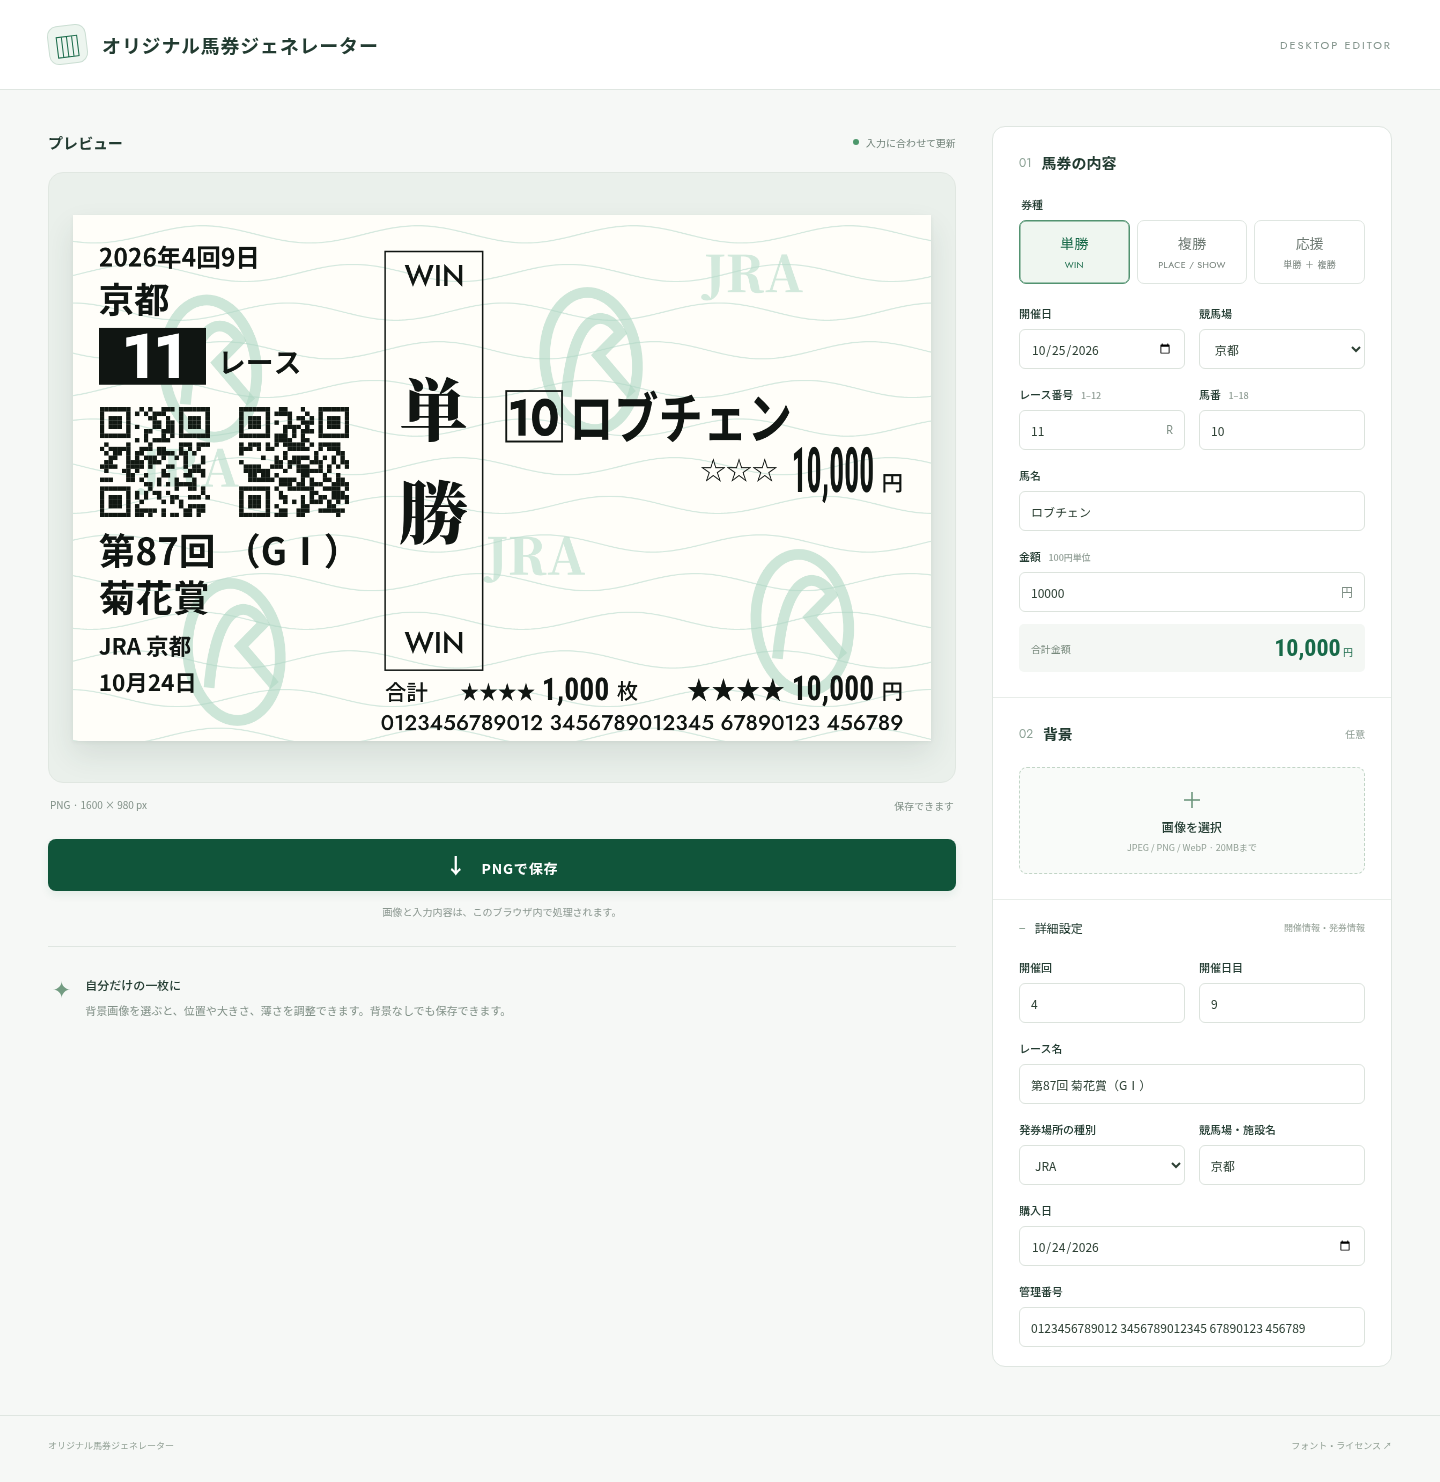
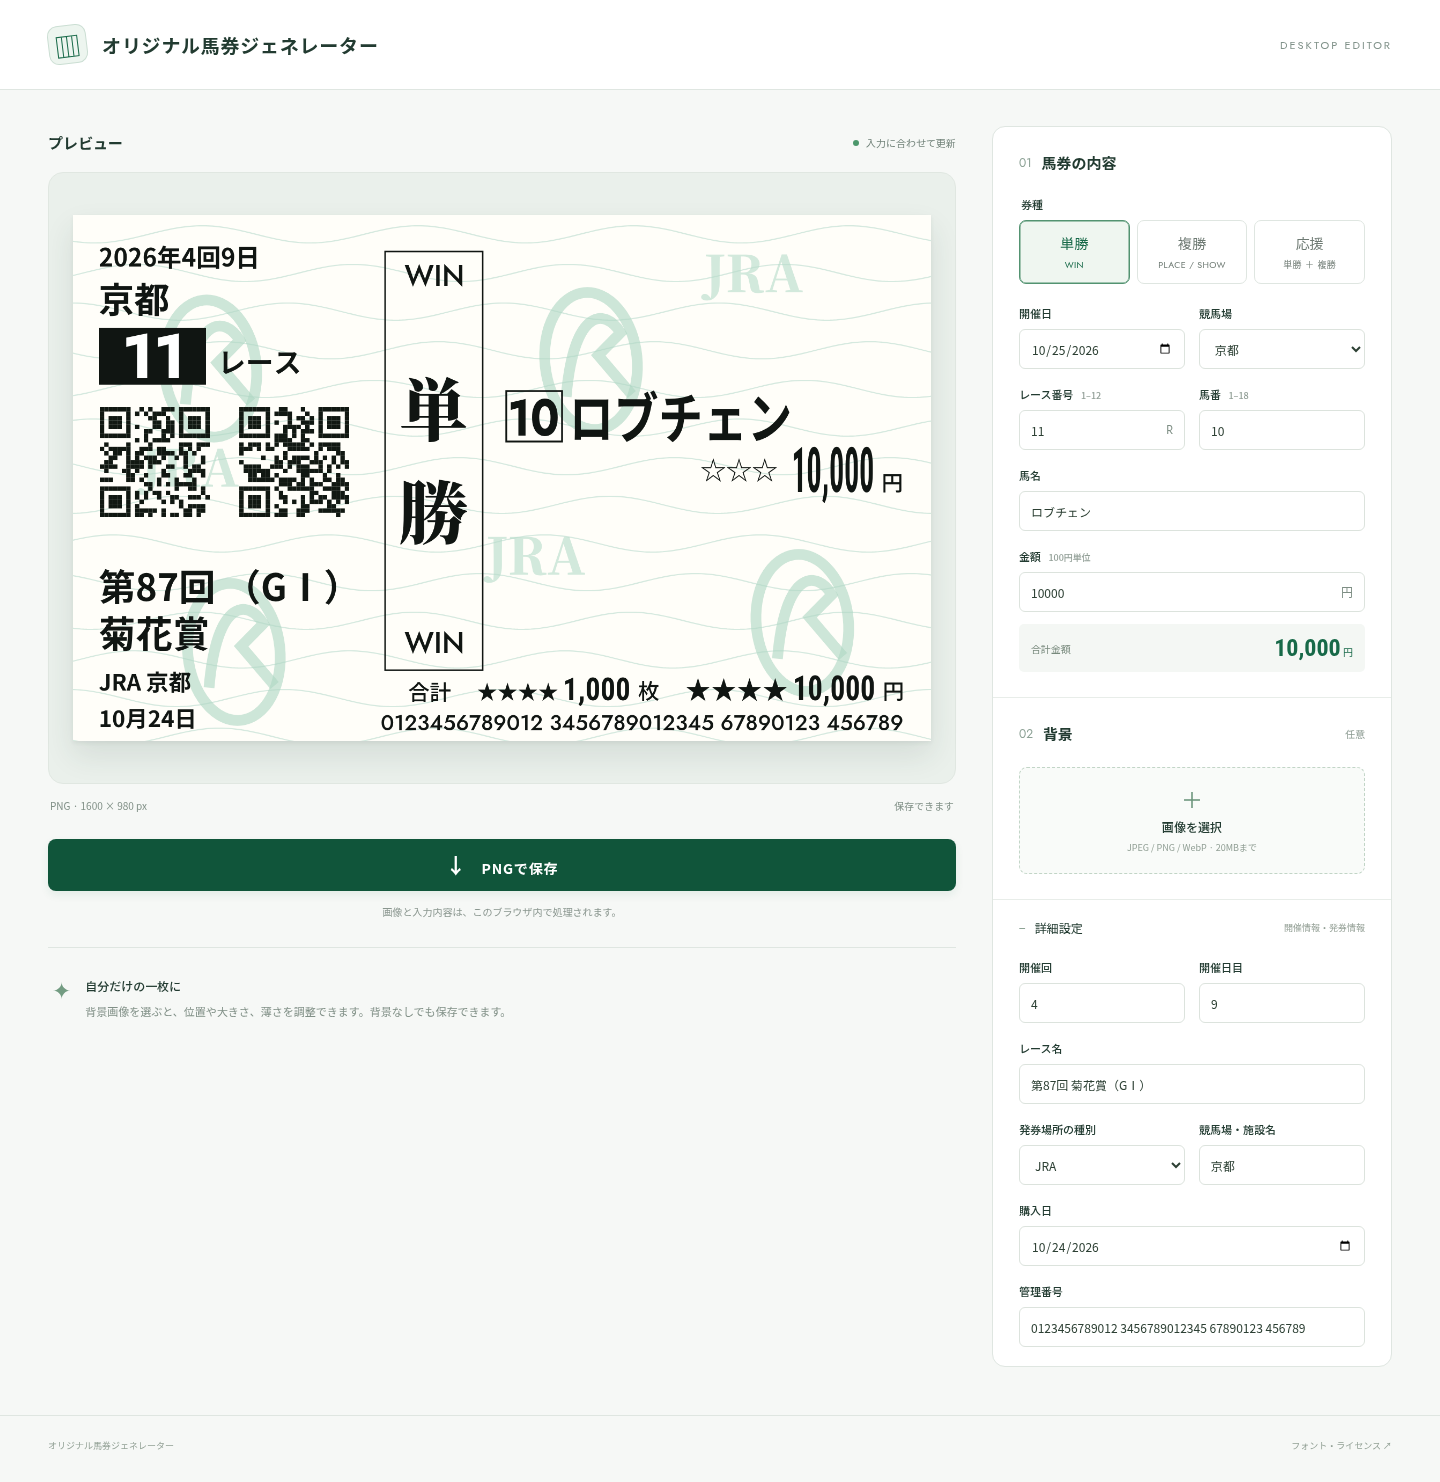
Group totals at bottom right and anchor race details at bottom left

diff --git a/app.js b/app.js
@@ -119,6 +119,40 @@
     ctx.restore();
     return starGap;
   }
+  function drawTotals(total){
+    const y=452, right=774, available=right-291;
+    function group(value,unit,size,starSize){
+      const s=number(value);
+      setFont(size,'money',700);const first=ctx.measureText(s[0]);
+      const inkOffset=digitCell/2-(first.width/2+first.actualBoundingBoxLeft)*digitCell/ctx.measureText('0').width;
+      setFont(starSize,'number',500);const stars=ctx.measureText('★★★★');
+      setFont(20,'sans',500);const unitRight=ctx.measureText(unit).actualBoundingBoxRight;
+      return {s,unit,size,starSize,stars,inkOffset,starWidth:stars.actualBoundingBoxLeft+stars.actualBoundingBoxRight,
+        fixedWidth:6-inkOffset+numericWidth(s)+7+unitRight};
+    }
+    ctx.save();
+    const count=group(total/10,'枚',30,19), amount=group(total,'円',32,24);
+    setFont(20,'sans',500);const label=ctx.measureText('合計');
+    const labelWidth=label.actualBoundingBoxLeft+label.actualBoundingBoxRight;
+    let groupGap=amount.starWidth/4;
+    const fixedWidth=labelWidth+count.fixedWidth+amount.fixedWidth;
+    const flexWidth=count.starWidth+amount.starWidth+2*groupGap;
+    const scale=Math.min(1,(available-fixedWidth)/flexWidth);
+    count.starWidth*=scale;amount.starWidth*=scale;groupGap*=scale;
+    const width=fixedWidth+count.starWidth+amount.starWidth+2*groupGap;
+    let x=right-width;
+    text('合計',x+label.actualBoundingBoxLeft,y,20,'sans',500);x+=labelWidth+groupGap;
+    for(const g of [count,amount]){
+      ctx.save();setFont(g.starSize,'number',500);ctx.fillStyle='#101512';ctx.textBaseline='alphabetic';
+      ctx.translate(x,y-1);ctx.scale(g.starWidth/(g.stars.actualBoundingBoxLeft+g.stars.actualBoundingBoxRight),1);
+      ctx.fillText('★★★★',g.stars.actualBoundingBoxLeft,0);ctx.restore();
+      const numberX=x+g.starWidth+6-g.inkOffset;
+      numericText(g.s,numberX,y,g.size);
+      text(g.unit,numberX+numericWidth(g.s)+7,y-1,20,'sans',500);
+      x+=g.starWidth+g.fixedWidth+groupGap;
+    }
+    ctx.restore();
+  }
   // Fixed decoration: paint only dark modules so every light area stays transparent.
   function decorativeCode(x,y,seed){
     const n=25,unit=4.1;let state=seed;
@@ -185,11 +219,13 @@
       plainTitle.slice(0,breakAt+1)+(grade?' '+grade:''),
       plainTitle.slice(breakAt+1).trim()
     ].filter(Boolean):title?[title]:[];
-    titleLines.forEach((part,index)=>text(part,24,326+index*43.5,34.5,'sans',700,244));
-    const issueY=titleLines.length>1?409.5:367;
-    text(`${d.issueType} ${d.issuePlace}`,24,issueY,21,'sans',700,244);
     const [,purchaseMonth,purchaseDay]=d.purchaseDate.split('-');
-    text(`${Number(purchaseMonth)}月${Number(purchaseDay)}日`,24,issueY+34,21,'sans',700,244);
+    const purchaseText=`${Number(purchaseMonth)}月${Number(purchaseDay)}日`;
+    setFont(21,'sans',700);const purchaseY=480-ctx.measureText(purchaseText).actualBoundingBoxDescent;
+    const issueY=purchaseY-34, titleY=issueY-40-Math.max(0,titleLines.length-1)*43.5;
+    titleLines.forEach((part,index)=>text(part,24,titleY+index*43.5,34.5,'sans',700,244));
+    text(`${d.issueType} ${d.issuePlace}`,24,issueY,21,'sans',700,244);
+    text(purchaseText,24,purchaseY,21,'sans',700,244);
     drawBand(d.type);
     const horseTop=d.type==='cheer'?138:164;
     if(d.type==='cheer'){
@@ -205,14 +241,7 @@
       money(d.amount,774,386,36,188,3,'☆','単勝');
       money(d.amount,774,420,36,188,3,'☆','複勝');
     }else money(d.amount,774,subtotalY,subtotalSize,314);
-    const total=d.amount*(d.type==='cheer'?2:1), count=total/10;
-    text('合計',291,452,20,'sans',500);
-    const starGap=money(total,774,452,32,242,4,'★');
-    const countInkLeft=numericText(number(count),507-7-numericWidth(number(count)),452,30);
-    setFont(19,'number',500);const countStars=ctx.measureText('★★★★');
-    const starWidth=Math.min(70,countInkLeft-starGap-337),starScale=Math.min(1,starWidth/countStars.width);
-    text('★★★★',countInkLeft-starGap-countStars.actualBoundingBoxRight*starScale,451,19,'number',500,starWidth);
-    text('枚',507,451,20,'sans',500);
+    drawTotals(d.amount*(d.type==='cheer'?2:1));
     rightBottomText(d.serial,774,480);
   }
   form.addEventListener('submit',e=>e.preventDefault());

diff --git a/docs/VERIFICATION.md b/docs/VERIFICATION.md
@@ -93,3 +93,11 @@
 - 星と先頭数字の実際の字形境界から間隔を求め、枚数・合計額の先頭数字が異なる場合も見た目の間隔を揃えた。
 - 最大桁数では「合計」と重ならない範囲に黒星4つを収める。枚数の単位位置と合計額側の黒星位置は維持。
 - Chromiumで3券種・100円・10,000円・999,900円の字形間隔が一致することと、ラベルと重ならないことを確認しPNGを保存。
+
+## 下部グループの配置（2026-10-19）
+
+- 「合計」「黒星4つ＋枚数」「黒星4つ＋累計金額」のグループ間を星1個分に統一し、右端x=774を固定してまとめて右下へ配置。
+- 最大金額でも券種帯より下の横幅に収まるよう、数字の固定桁幅を保ったまま星とグループ間隔を調整。黒星から数字までの間隔は両グループとも6論理px。
+- 左側のレース名・発券場所・購入日グループは購入日の字形下端y=480に固定し、レース名の行数にかかわらず左下へ配置。
+- 左上の開催情報・競馬場・レース番号・QRコードの位置を維持。
+- Chromiumで3券種・100円・10,000円・999,900円、空欄・1行・2行・長いレース名について、グループ間隔、右端・下端の固定、固定桁幅、ラベルや管理番号との重なりがないことを確認しPNG保存。
